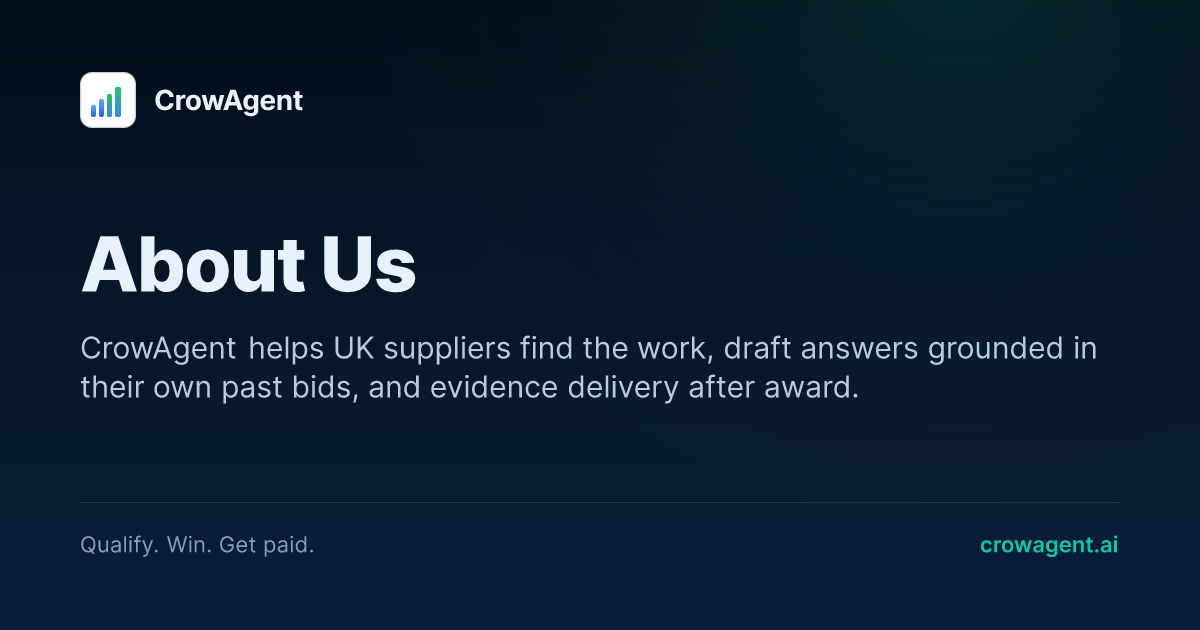
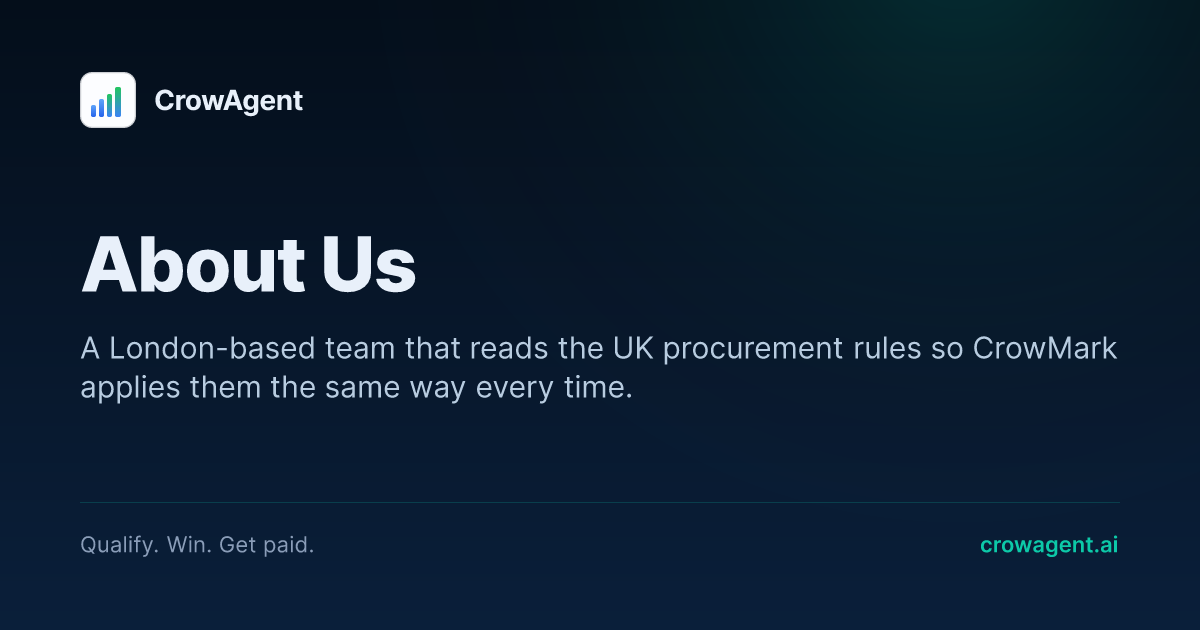
fix(seo): duplicate meta description, a 93-char title, and 6 titles truncating mid-word
Started as the font question the backlog left open and ended somewhere else, because
the fonts turned out to be clean.

FONTS: NO WASTE, no action. Audited every face fetched against every family actually
painting a glyph, on all 43 pages. Nothing is fetched without being used, and there
are zero unused font preloads. The "flat ~101 KB" I recorded last iteration was an
average hiding real variation: pages without monospace fetch 71 KB (Inter + Plus
Jakarta 700/800), pages with it fetch 102 KB. The browser is already lazy and correct.
Recorded as verified-clean so nobody re-investigates.

Then audited titles and descriptions across all 43 pages, attribute-order agnostic:

  DUPLICATE DESCRIPTION. about.html shared its meta description AND og:description
  AND twitter:description verbatim with index.html. Two pages competing for one
  snippet. about.html now describes itself, from claims verified ON the page — its H1
  is "Built by engineers who read the rules.", its eyebrow reads "UK Built · Statute
  Cited · London Based", and it carries History, Company details and "What we stand
  for" sections. 153 chars. Its OG card regenerated and was read to confirm.

  93-CHARACTER TITLE. crowmark-buyers.html, a page I wrote. 93 -> 53, keeping the
  site's "| CrowAgent" convention. Its 234-character description -> 125, keeping the
  AI-scoring boundary because that is the page's central claim and cutting the
[…]

Changed region(s): [[0.0617, 0.5127, 0.925, 0.573], [0.0617, 0.6032, 0.7092, 0.6333]]

diff --git a/crowmark-buyers.html b/crowmark-buyers.html
@@ -49,8 +49,8 @@
        Locating evidence for a panel to read is bid software. Forming a view on a
        supplier is professional services, which is the field the trade mark
        conflict concerns. That boundary is the whole reason section 02 leads. -->
-<title>CrowMark for Buyers | Publish requirements, locate the evidence, monitor delivery | CrowAgent</title>
-<meta name="description" content="CrowMark for Buyers helps UK contracting authorities publish social value requirements, locate evidence verbatim in every response, and monitor committed against delivered social value after award. The panel scores; the AI never does.">
+<title>CrowMark for Buyers | Locate the evidence | CrowAgent</title>
+<meta name="description" content="For UK contracting authorities. Locate social value evidence verbatim in every response. The panel scores; the AI never does.">
 <link rel="canonical" href="https://crowagent.ai/crowmark-buyers">
 <link rel="icon" href="/favicon.svg" type="image/svg+xml">
 <link rel="icon" type="image/png" sizes="32x32" href="/favicon-32.png?v=20260718c">
@@ -69,20 +69,20 @@
 <script src="/js/nav-inject.js?v=20260730d" defer></script>
 <script src="/js/modules/magnetic-pull.js?v=20260603" defer></script>
 
-  <meta property="og:title" content="CrowMark for Buyers | Publish requirements, locate the evidence, monitor delivery">
-  <meta property="og:description" content="For UK contracting authorities. Publish social value requirements, locate evidence verbatim in every response, monitor committed against delivered after award. The panel scores; the AI never does.">
+  <meta property="og:title" content="CrowMark for Buyers | Locate the evidence">
+  <meta property="og:description" content="For UK contracting authorities. Locate social value evidence verbatim in every response. The panel scores; the AI never does.">
   <meta property="og:type" content="website">
   <meta property="og:url" content="https://crowagent.ai/crowmark-buyers">
   <meta property="og:image" content="https://crowagent.ai/Assets/og/crowmark.png">
-  <meta property="og:image:alt" content="CrowMark for Buyers | Publish requirements, locate the evidence, monitor delivery">
+  <meta property="og:image:alt" content="CrowMark for Buyers | Locate the evidence">
   <meta property="og:image:width" content="1200">
   <meta property="og:image:height" content="630">
   <meta property="og:site_name" content="CrowAgent">
   <meta property="og:locale" content="en_GB">
   <meta name="twitter:card" content="summary_large_image">
   <meta name="twitter:site" content="@CrowAgentLtd">
-  <meta name="twitter:title" content="CrowMark for Buyers | Publish requirements, locate the evidence, monitor delivery">
-  <meta name="twitter:description" content="For UK contracting authorities. Publish social value requirements, locate evidence verbatim in every response, monitor delivery after award. The panel scores; the AI never does.">
+  <meta name="twitter:title" content="CrowMark for Buyers | Locate the evidence">
+  <meta name="twitter:description" content="For UK contracting authorities. Locate social value evidence verbatim in every response. The panel scores; the AI never does.">
   <meta name="twitter:image" content="https://crowagent.ai/Assets/og/crowmark.png">
 <link rel="alternate" hreflang="en-GB" href="https://crowagent.ai/crowmark-buyers">
 <link rel="alternate" hreflang="x-default" href="https://crowagent.ai/crowmark-buyers">

diff --git a/about.html b/about.html
@@ -29,7 +29,7 @@
      vision: "every supplier"). "Elite organisations" reads like leftover positioning
      from before the site narrowed to one SME-focused product. Replaced with the
      audience the rest of the page actually names. -->
-<meta name="description" content="CrowAgent helps UK suppliers find the work, draft answers grounded in their own past bids, and evidence delivery after award.">
+<meta name="description" content="A London-based team that reads the UK procurement rules so CrowMark applies them the same way every time. Company details, history and what we stand for.">
 <link rel="icon" href="/favicon.svg" type="image/svg+xml">
 <link rel="icon" type="image/png" sizes="32x32" href="/favicon-32.png?v=20260718c">
 <link rel="icon" type="image/png" sizes="192x192" href="/favicon-192.png?v=20260718c">
@@ -147,7 +147,7 @@
 
   <!-- CHROME-AUDIT 2026-05-30: social share cards (Claude) -->
   <meta property="og:title" content="About Us | CrowAgent">
-  <meta property="og:description" content="CrowAgent helps UK suppliers find the work, draft answers grounded in their own past bids, and evidence delivery after award.">
+  <meta property="og:description" content="A London-based team that reads the UK procurement rules so CrowMark applies them the same way every time. Company details, history and what we stand for.">
   <meta property="og:type" content="website">
   <meta property="og:url" content="https://crowagent.ai/about">
   <meta property="og:image" content="https://crowagent.ai/Assets/og/about.png">
@@ -159,7 +159,7 @@
   <meta name="twitter:card" content="summary_large_image">
   <meta name="twitter:site" content="@CrowAgentLtd">
   <meta name="twitter:title" content="About Us | CrowAgent">
-  <meta name="twitter:description" content="CrowAgent helps UK suppliers find the work, draft answers grounded in their own past bids, and evidence delivery after award.">
+  <meta name="twitter:description" content="A London-based team that reads the UK procurement rules so CrowMark applies them the same way every time. Company details, history and what we stand for.">
   <meta name="twitter:image" content="https://crowagent.ai/Assets/og/about.png">
 <link rel="alternate" hreflang="en-GB" href="https://crowagent.ai/about">
 <link rel="alternate" hreflang="x-default" href="https://crowagent.ai/about">

diff --git a/blog/procurement-act-2023-sme-guide.html b/blog/procurement-act-2023-sme-guide.html
@@ -14,7 +14,7 @@
 <script defer="" src="/js/vendor/gsap.min.js?v=20260525"></script>
 <script defer="" src="/js/vendor/ScrollTrigger.min.js?v=20260525"></script>
 <script defer="" src="/js/modules/compiled/sovereign-transformation-v2.js?v=20260729rev" type="module"></script>
-<title>The Procurement Act 2023: what SME bidders actually need to know | CrowAgent</title>
+<title>The Procurement Act 2023: what SME bidders actually need to know</title>
 <meta content="A plain-English guide to the Procurement Act 2023 for SME bidders: the February 2025 go-live, MAT replacing MEAT, and the Central Digital Platform." name="description"/>
 <meta content="The Procurement Act 2023: what SME bidders actually need to know | CrowAgent" property="og:title"/>
 <meta content="What the Procurement Act 2023 changes for SME bid teams: MAT replaces MEAT, one Central Digital Platform registration, and far more published information." property="og:description"/>

diff --git a/blog/social-value-portal-vs-crowmark.html b/blog/social-value-portal-vs-crowmark.html
@@ -14,7 +14,7 @@
 <script defer="" src="/js/vendor/gsap.min.js?v=20260525"></script>
 <script defer="" src="/js/vendor/ScrollTrigger.min.js?v=20260525"></script>
 <script defer="" src="/js/modules/compiled/sovereign-transformation-v2.js?v=20260729rev" type="module"></script>
-<title>Social Value Portal vs CrowMark: Which is Right for Your Business? | CrowAgent</title>
+<title>Social Value Portal vs CrowMark: Which is Right for Your Business?</title>
 <meta content="A straight comparison of Social Value Portal and CrowMark on PPN 002 work: who each one is built for, what each does well, and where neither will suit you." name="description"/>
 <link href="https://crowagent.ai/blog/social-value-portal-vs-crowmark" rel="canonical"/>
 <link href="https://crowagent.ai/blog/social-value-portal-vs-crowmark" hreflang="en-GB" rel="alternate"/>

diff --git a/blog/ppn-002-social-value-guide.html b/blog/ppn-002-social-value-guide.html
@@ -14,7 +14,7 @@
 <script defer="" src="/js/vendor/gsap.min.js?v=20260525"></script>
 <script defer="" src="/js/vendor/ScrollTrigger.min.js?v=20260525"></script>
 <script defer="" src="/js/modules/compiled/sovereign-transformation-v2.js?v=20260729rev" type="module"></script>
-<title>PPN 002: The Complete Guide to Social Value Scoring for UK Bids | CrowAgent</title>
+<title>PPN 002: The Complete Guide to Social Value Scoring for UK Bids</title>
 <meta content="PPN 002: complete guide to social value scoring on UK government bids. Missions, TOMs, Oxford SVB proxy values, audit trail, common pitfalls." name="description"/>
 <link href="https://crowagent.ai/blog/ppn-002-social-value-guide" rel="canonical"/>
 <link href="https://crowagent.ai/blog/ppn-002-social-value-guide" hreflang="en-GB" rel="alternate"/>

diff --git a/compare/crowmark-vs-mytender-io.html b/compare/crowmark-vs-mytender-io.html
@@ -13,7 +13,7 @@
 <script defer="" src="/js/vendor/gsap.min.js?v=20260525"></script>
 <script defer="" src="/js/vendor/ScrollTrigger.min.js?v=20260525"></script>
 <script defer="" src="/js/modules/compiled/sovereign-transformation-v2.js?v=20260729rev" type="module"></script>
-<title>CrowMark vs mytender.io: an honest UK bid software comparison | CrowAgent</title>
+<title>CrowMark vs mytender.io: an honest UK bid software comparison</title>
 <meta content="CrowMark against mytender.io: published pricing and figure-grounding versus a private-cloud drafting platform. Every figure sourced and dated." name="description"/>
 <link href="https://crowagent.ai/compare/crowmark-vs-mytender-io" rel="canonical"/>
 <link href="https://crowagent.ai/compare/crowmark-vs-mytender-io" hreflang="en-GB" rel="alternate"/>

diff --git a/compare/crowmark-vs-cleantender.html b/compare/crowmark-vs-cleantender.html
@@ -13,7 +13,7 @@
 <script defer="" src="/js/vendor/gsap.min.js?v=20260525"></script>
 <script defer="" src="/js/vendor/ScrollTrigger.min.js?v=20260525"></script>
 <script defer="" src="/js/modules/compiled/sovereign-transformation-v2.js?v=20260729rev" type="module"></script>
-<title>CrowMark vs CleanTender: an honest UK bid software comparison | CrowAgent</title>
+<title>CrowMark vs CleanTender: an honest UK bid software comparison</title>
 <meta content="CrowMark against CleanTender: a sector-agnostic bid suite versus a soft-FM specialist. Both publish prices, so the question is scope." name="description"/>
 <link href="https://crowagent.ai/compare/crowmark-vs-cleantender" rel="canonical"/>
 <link href="https://crowagent.ai/compare/crowmark-vs-cleantender" hreflang="en-GB" rel="alternate"/>

diff --git a/crowmark.html b/crowmark.html
@@ -38,7 +38,7 @@
      and bid/no-bid FIT scoring) are BUILT BUT NOT RELEASED: they appear only in
      the "In development" block, labelled Not yet available, and must never be
      added to the live feature grid, the title, the meta description or the hero. -->
-<title>CrowMark | Find UK tenders, draft grounded answers, prove delivery | CrowAgent</title>
+<title>CrowMark | Find UK tenders, draft grounded answers, prove delivery</title>
 <meta name="description" content="CrowMark tracks Contracts Finder and Find a Tender daily, drafts bid answers from your own past bids, and evidences delivery after award. From £49/month.">
 <link rel="canonical" href="https://crowagent.ai/crowmark">
 <link rel="icon" href="/favicon.svg" type="image/svg+xml">
